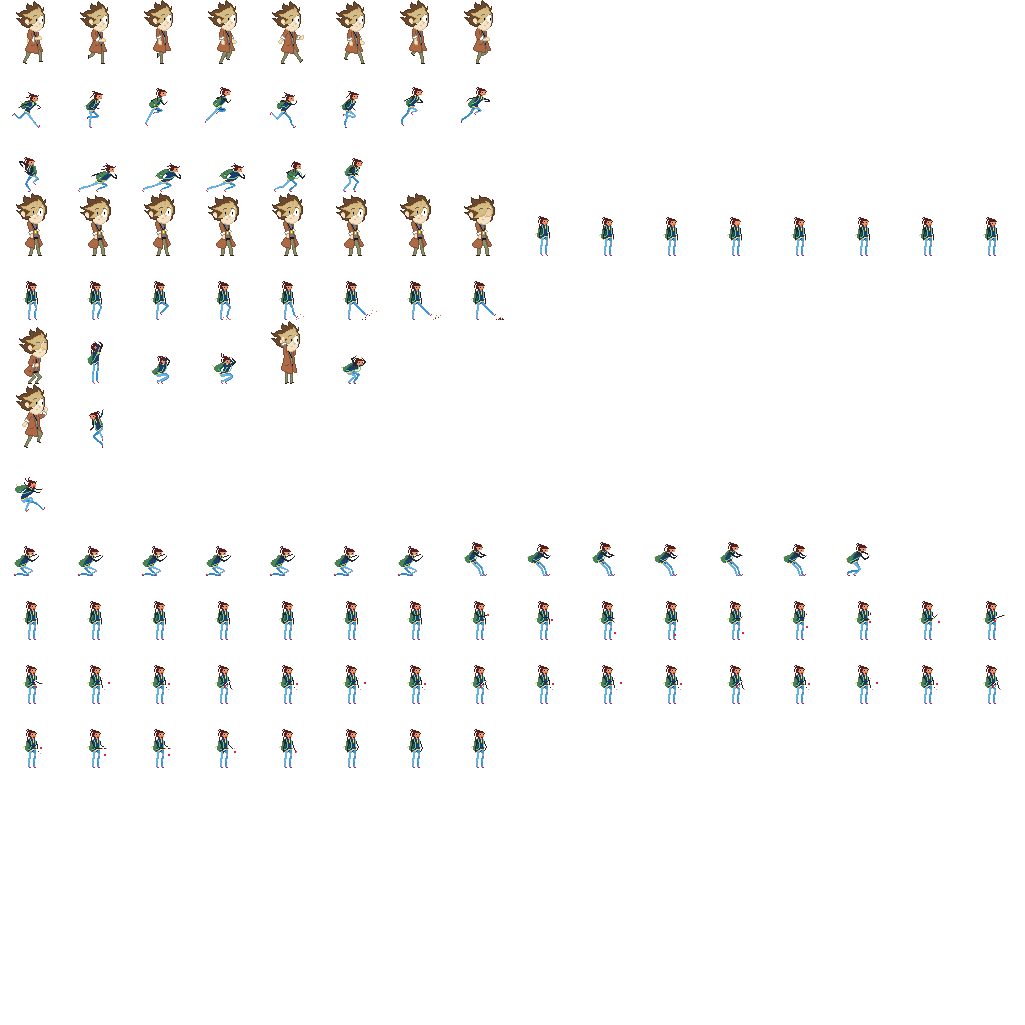
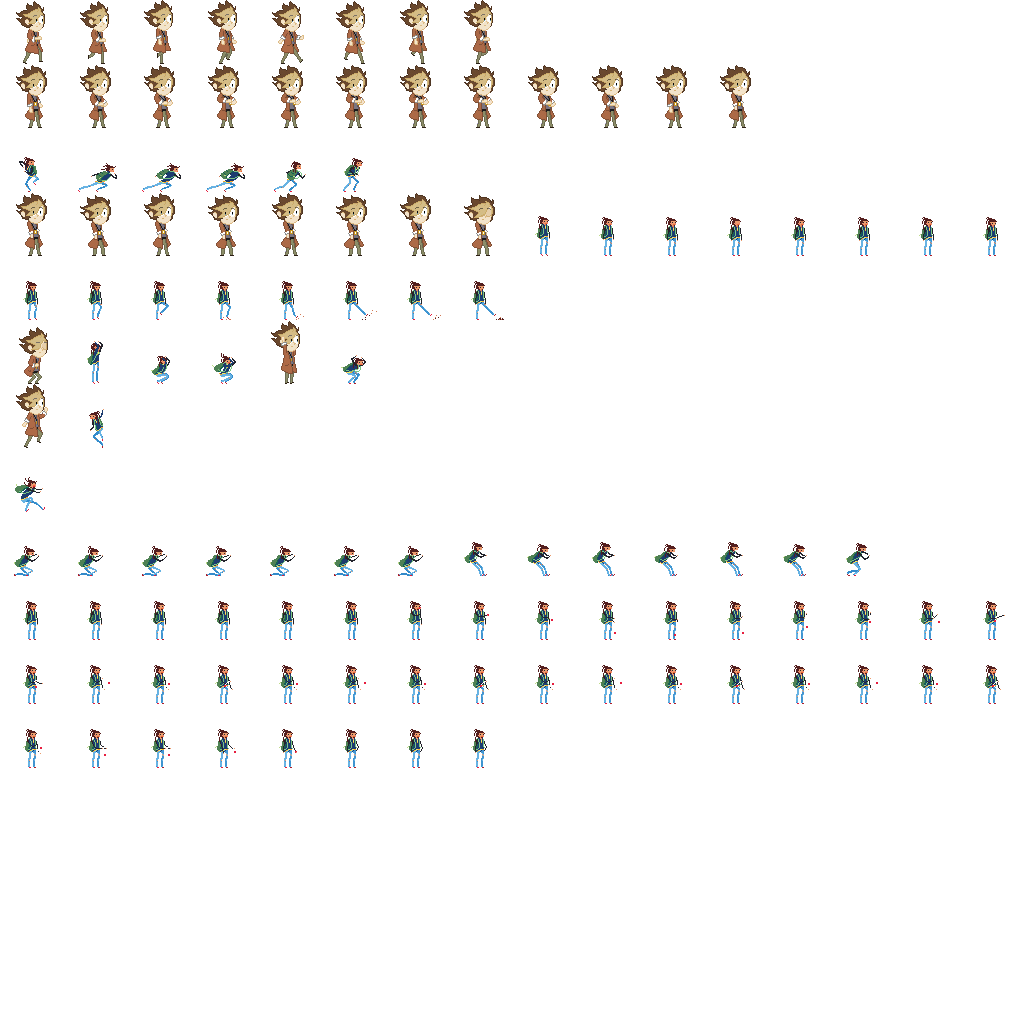
Added winding animations still a little broken

Changed region(s): [[0.0, 0.0624, 0.7493, 0.1249]]

diff --git a/src/sprites/Player.js b/src/sprites/Player.js
@@ -186,6 +186,13 @@ class MainPlayer extends Phaser.Sprite {
         case MainPlayer.overrideStates.FALLING:
           if (__DEV__) console.info('playing "falling"')
           this.animations.play('fall')
+          break
+
+        case MainPlayer.overrideStates.WINDING:
+          if (__DEV__) console.info('playing "winding"')
+          this.animations.play('winding')
+          this._lightTimer = 150
+          break
       }
     } else {
       // Look at the current movement state and adjust the animation accordingly
@@ -230,6 +237,11 @@ class MainPlayer extends Phaser.Sprite {
       if (this.touching(0, 1)) {
         this.overrideState = MainPlayer.overrideStates.NONE
       }
+    } else if (this.overrideState === MainPlayer.overrideStates.WINDING) {
+      if (this.touching(0, 1)) {
+      } else {
+        this.overrideState = MainPlayer.overrideStates.NONE
+      }
     }
 
     // Automatically switch to idle after designated countdown
@@ -259,6 +271,7 @@ class MainPlayer extends Phaser.Sprite {
     this.animations.add('idle', sequentialNumArray(48, 55), 4, true)
     this.animations.add('jump', [80, 96], 10, false)
     this.animations.add('fall', [84], 10, true)
+    this.animations.add('winding', sequentialNumArray(16, 27), 4, false)
   }
 }
 
@@ -275,6 +288,7 @@ MainPlayer.moveStates = Object.freeze({
 MainPlayer.overrideStates = Object.freeze({
   JUMPING: 'jumping',
   FALLING: 'falling',
+  WINDING: 'winding',
   NONE: 'none'
 })
 

diff --git a/src/states/Splash.js b/src/states/Splash.js
@@ -50,11 +50,11 @@ class Splash extends Phaser.State {
     this.game.physics.p2.gravity.y = 700
     this.game.physics.p2.world.defaultContactMaterial.friction = 0.3
 
-     // collision group creation
-     this.game.playerGroup = this.game.physics.p2.createCollisionGroup()
-     this.game.platformGroup = this.game.physics.p2.createCollisionGroup()
-     this.game.leverGroup = this.game.physics.p2.createCollisionGroup()
-     this.game.springGroup = this.game.physics.p2.createCollisionGroup()
+    // collision group creation
+    this.game.playerGroup = this.game.physics.p2.createCollisionGroup()
+    this.game.platformGroup = this.game.physics.p2.createCollisionGroup()
+    this.game.leverGroup = this.game.physics.p2.createCollisionGroup()
+    this.game.springGroup = this.game.physics.p2.createCollisionGroup()
 
     // The main player spritesheet
     this.load.spritesheet('player-main', 'assets/images/player-main.png', 64, 64)

diff --git a/src/states/TestLevel.js b/src/states/TestLevel.js
@@ -269,7 +269,8 @@ class TestLevel extends Phaser.State {
 
     // create light on the player when shift is pressed
     if (timerTesting < 150.0) {
-      if (this.clock.isDown) {
+      if (this.clock.isDown && this.player.touching(0, 1)) {
+        this.player.overrideState = MainPlayer.overrideStates.WINDING
         timerTesting += 0.7
       }
     }
@@ -327,7 +328,7 @@ class TestLevel extends Phaser.State {
       // this.radialLight.moveSocket2([this.player.world.x, this.player.world.y + this.player.height / 2])
       this.radialLight.moveSocket2(screenSpacePos)
     }
-    
+
     // Check state of keys to control main character
     let speed = 0
     if (this.rightKey.isDown) { speed++ }
